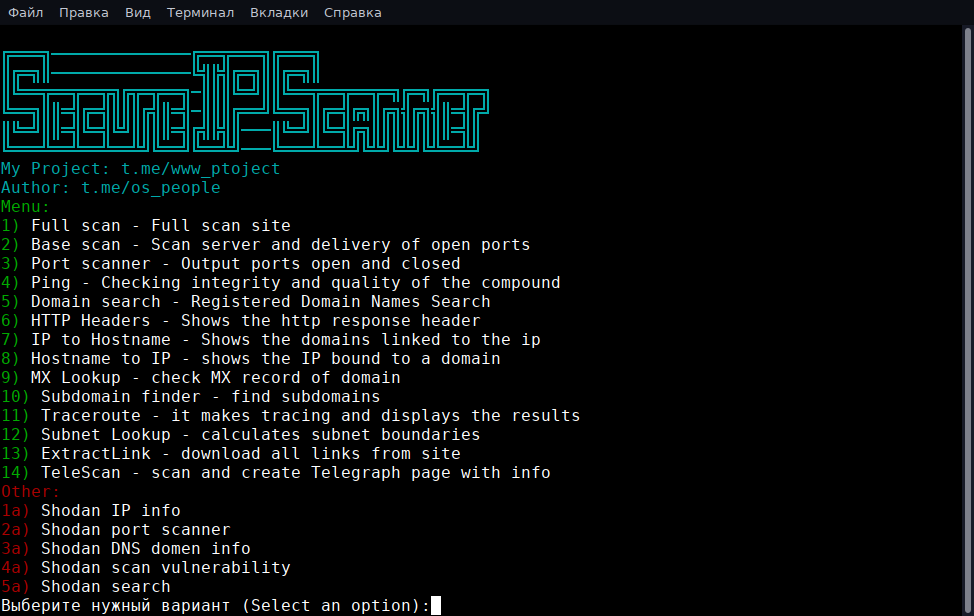
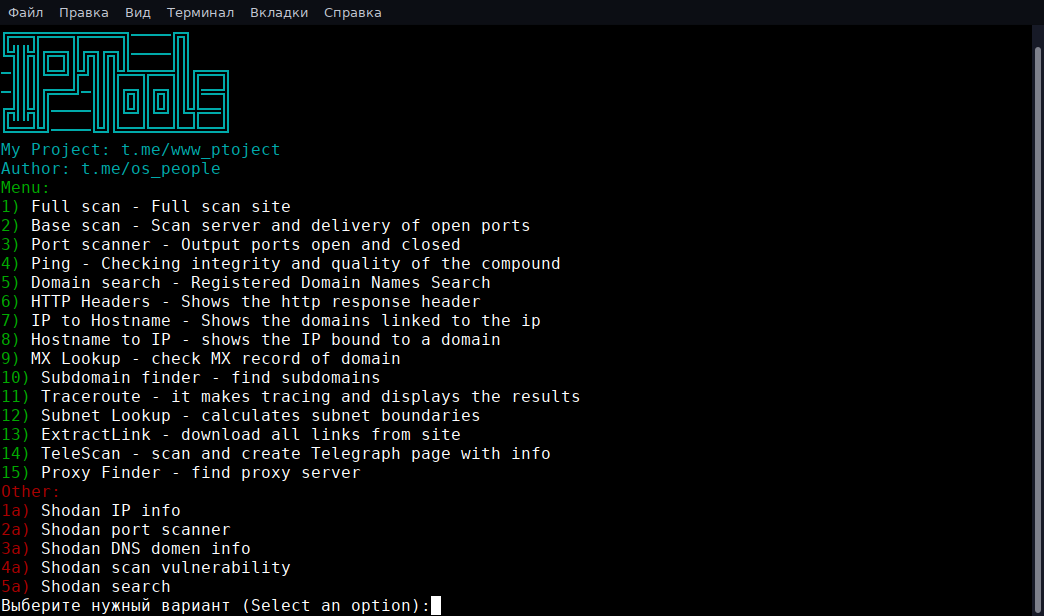
1.7.9
Add proxy finder

Changed region(s): [[0.0, 0.0, 0.5852, 1.0], [0.9856, 0.0308, 1.0, 1.0]]

diff --git a/main.py b/main.py
@@ -6,6 +6,9 @@ import time
 import json
 import shodan
 from telegraph import Telegraph
+import socket
+import socks
+
 telegraph = Telegraph()
 telegraph.create_account(short_name='Hacker228')
 
@@ -39,12 +42,12 @@ def startScript():
 	global url, pingType
 	os.system('clear')
 	print(cyan + '''
-╔═══╗──────────────╔══╦═══╗╔═══╗
-║╔═╗║──────────────╚╣╠╣╔═╗║║╔═╗║
-║╚══╦══╦══╦╗╔╦═╦══╗─║║║╚═╝║║╚══╦══╦══╦═╗╔═╗╔══╦═╗
-╚══╗║║═╣╔═╣║║║╔╣║═╣─║║║╔══╝╚══╗║╔═╣╔╗║╔╗╣╔╗╣║═╣╔╝
-║╚═╝║║═╣╚═╣╚╝║║║║═╣╔╣╠╣║───║╚═╝║╚═╣╔╗║║║║║║║║═╣║
-╚═══╩══╩══╩══╩╝╚══╝╚══╩╝───╚═══╩══╩╝╚╩╝╚╩╝╚╩══╩╝
+╔══╦═══╦════╗────╔╗
+╚╣╠╣╔═╗║╔╗╔╗║────║║
+─║║║╚═╝╠╝║║╠╩═╦══╣║╔══╗
+─║║║╔══╝─║║║╔╗║╔╗║║║══╣
+╔╣╠╣║────║║║╚╝║╚╝║╚╬══║
+╚══╩╝────╚╝╚══╩══╩═╩══╝
 My Project: t.me/www_ptoject
 Author: t.me/os_people
 ''' + green +'''Menu:
@@ -61,7 +64,8 @@ Author: t.me/os_people
  + green +'\n11)'+ defaultColor + ' Traceroute - it makes tracing and displays the results'
  + green +'\n12)'+ defaultColor + ' Subnet Lookup - calculates subnet boundaries'
  + green +'\n13)'+ defaultColor + ' ExtractLink - download all links from site'
- + green +'\n14)'+ defaultColor + ' TeleScan - scan and create Telegraph page with info ')
+ + green +'\n14)'+ defaultColor + ' TeleScan - scan and create Telegraph page with info '
+ + green +'\n15)'+ defaultColor + ' Proxy Finder - find proxy server')
 	print(red+'Other:'+ defaultColor
 +red+'\n1a)'+ defaultColor+ ' Shodan IP info'
 +red+'\n2a)'+ defaultColor+ ' Shodan port scanner'
@@ -115,6 +119,10 @@ Author: t.me/os_people
 	elif selectMode == '14':
 		url = input('Введи IP или домен сайта(Enter the IP or domain of the website): ')
 		teleMode()
+	elif selectMode == '15':
+		proxyFinder()
+	elif selectMode == 'debug':
+		proxyOne()
 	elif selectMode == '1a':
 		url = input('Введите IP или домен(Enter IP or domain): ')
 		shodanFunc()
@@ -134,6 +142,28 @@ Author: t.me/os_people
 		print('Введено не верное значение!')
 		time.sleep(1)
 		startScript()
+
+def proxyFinder():
+	country = input('Введите код страны(Enter the country code): ')
+	typeProxy = input('Введите тип прокси(Enter the proxy type): ')
+	proxyReq = requests.get('https://www.proxy-list.download/api/v1/get?type='+typeProxy+'&anon=elite&country='+country)
+	proxyReq2 = requests.get('https://www.proxy-list.download/api/v1/get?type='+typeProxy+'&anon=transparent&country='+country)
+	proxyReq3 = requests.get('https://www.proxy-list.download/api/v1/get?type='+typeProxy+'&anon=anonymous&country='+country)
+	otherEliteReq = requests.get(' https://api.proxyscrape.com?request=displayproxies&proxytype='+typeProxy
+		+'&timeout=7000&country='+country+'&anonymity=elite&ssl=no')
+	
+	otherTransparentReq2 = requests.get(' https://api.proxyscrape.com?request=displayproxies&proxytype='+typeProxy
+		+'&timeout=7000&country='+country+'&anonymity=transparent&ssl=no')
+	
+	otherAnonymousReq3 = requests.get(' https://api.proxyscrape.com?request=displayproxies&proxytype='+typeProxy
+		+'&timeout=7000&country='+country+'&anonymity=anonymous&ssl=no')
+	
+	print('Result: \n' +
+		'\nElite anon: \n'+ proxyReq.text + otherEliteReq.text +
+		'\nTransparent anon: \n ' + proxyReq2.text+ otherTransparentReq2.text + 
+		'\nAnonymous anon: \n ' + proxyReq3.text + otherAnonymousReq3.text +
+		'\nFINISH!')
+	restartMenu()
 
 
 def shodanSearch():
@@ -607,15 +637,19 @@ def portFunc():
 '\nNewsEDGE(8888 PORT): ' + portJson['8888'])
 
 def headersFunc():
-	ipInfoReq = requests.get('https://www.4it.me/api/getavaiblestatus?query=' + url,
-		headers={'User-Agent': firefoxUserAgent}, 
-		data={'query' : str(url)})
-		# ipInfoReq выдает инфу о сервере
-	print('\nСервер: ' + str(ipInfoJson['headers']['server']) +
-'\nДата: ' + str(ipInfoJson['headers']['date']) + 
-'\nСоединение: ' + str(ipInfoJson['headers']['connection']))
-
+	try:
+		ipInfoReq = requests.get('https://www.4it.me/api/getavaiblestatus?query=' + url,
+			headers={'User-Agent': firefoxUserAgent}, 
+			data={'query' : str(url)})
+			# ipInfoReq выдает инфу о сервере
+		print('\nСервер: ' + str(ipInfoJson['headers']['server']) +
+	'\nДата: ' + str(ipInfoJson['headers']['date']) + 
+	'\nСоединение: ' + str(ipInfoJson['headers']['connection']))
+	except KeyError:
+		print('Ошибка Соединения!\n'+
+			'connection Error!')
 def fullScan():
+	os.system('clear')
 	whoisFunc()
 	infoScan()
 	portFunc()
@@ -660,6 +694,5 @@ def pingIP():  # кривой,но рабочий Ping. Работает с по
 '\n' + str(pingJson['nodes']['us4.node.check-host.net'][1]) + ': '+ str(pingJsonResult['us4.node.check-host.net']))
 	#print(pingReq.text)
 	restartMenu()
-
 
 startScript()

diff --git a/install.py b/install.py
@@ -1,7 +1,7 @@
 import os
 import time
 
-colorNum = ['\033[32m','\033[0m','\033[31m','\033[0m','\033[36m'] # это окраска текста с помощью ANSI code
+colorNum = ['\033[32m','\033[0m','\033[31m','\033[0m','\033[36m'] # это окраска текста с помощью ANSI
 
 def startInstall():
 	os.system('clear')
